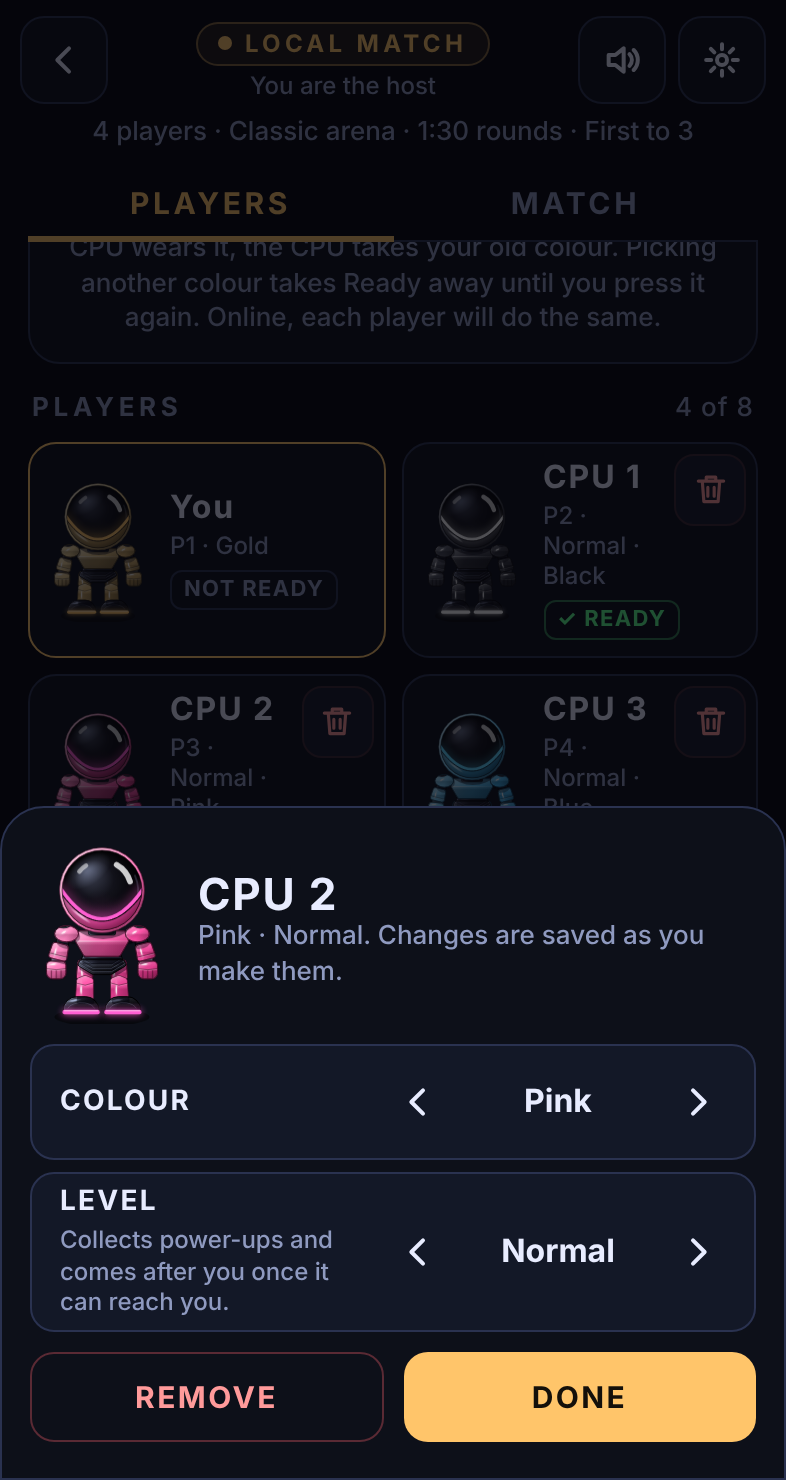
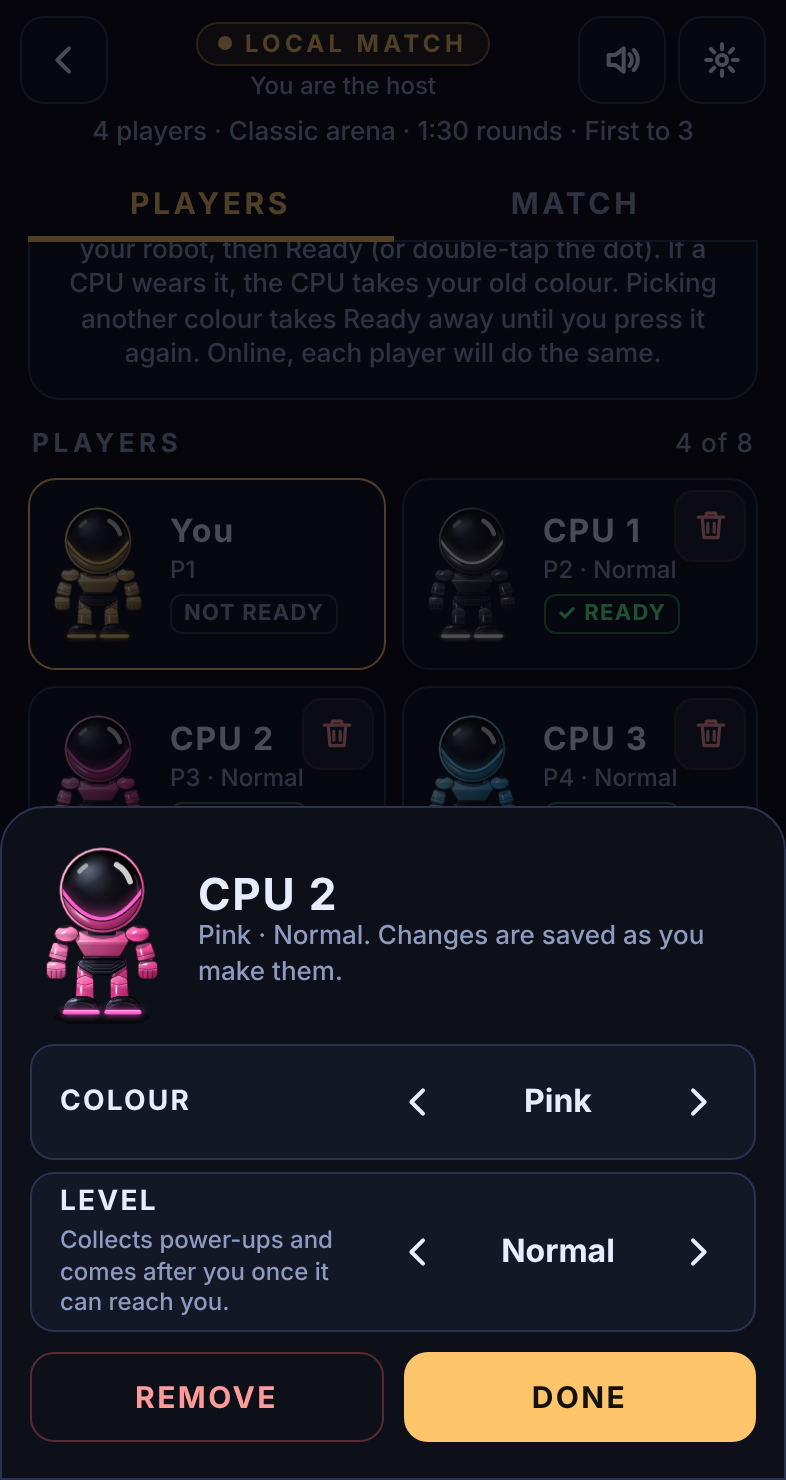
Lobby: player cards show P1, P2 · Normal, without the colour name
The colour is already plain from the robot on each card.

Claude-Session: https://claude.ai/code/session_011ftAyXDt63myZfd3j4Vhew

diff --git a/src/lobby.ts b/src/lobby.ts
@@ -206,7 +206,7 @@ export function createLobby(host: LobbyHost): {
     me.setAttribute('aria-label', `You, P1, ${colorById(host.myColor).name}, ${ready ? 'ready' : 'not ready'}`);
     const mc = document.createElement('canvas');
     const mt = document.createElement('div');
-    mt.innerHTML = `<b>You</b><small>P1 · ${colorById(host.myColor).name}</small><span class="rdy${ready ? ' on' : ''}">${ready ? '✓ Ready' : 'Not ready'}</span>`;
+    mt.innerHTML = `<b>You</b><small>P1</small><span class="rdy${ready ? ' on' : ''}">${ready ? '✓ Ready' : 'Not ready'}</span>`;
     me.append(mc, mt);
     box.append(me);
     const cvs: [HTMLCanvasElement, string][] = [[mc, host.myColor]];
@@ -218,7 +218,7 @@ export function createLobby(host: LobbyHost): {
       b.setAttribute('aria-label', `CPU ${i + 1}, P${i + 2}, ${colorById(c.colorId).name}, ${LEVELS[c.level].label}, ready. Tap to change.`);
       const cv = document.createElement('canvas');
       const t = document.createElement('div');
-      t.innerHTML = `<b>CPU ${i + 1}</b><small>P${i + 2} · ${LEVELS[c.level].label} · ${colorById(c.colorId).name}</small><span class="rdy on">✓ Ready</span>`;
+      t.innerHTML = `<b>CPU ${i + 1}</b><small>P${i + 2} · ${LEVELS[c.level].label}</small><span class="rdy on">✓ Ready</span>`;
       b.append(cv, t);
       b.addEventListener('click', () => openSheet(i));
       // the bin: removes this CPU player at once (Undo brings it back)

diff --git a/src/page.html b/src/page.html
@@ -477,7 +477,8 @@
   .slot.add b { font-size: 14px; }
   .slot-wrap { position: relative; display: grid; }
   .slot-wrap .slot { padding-right: 8px; }
-  .slot-wrap .slot b, .slot-wrap .slot small { padding-right: 32px; }
+  .slot-wrap .slot b { padding-right: 32px; }
+  .slot small { white-space: nowrap; }
   .bin { position: absolute; top: 6px; right: 6px; width: 36px; height: 36px; display: grid; place-items: center; padding: 0; cursor: pointer; color: #ff9a9a; background: #151a28; border: 1px solid #3a2530; border-radius: 10px; }
   .bin svg { width: 19px; height: 19px; fill: none; stroke: currentColor; stroke-width: 2; stroke-linecap: round; stroke-linejoin: round; }
   .bin:disabled { opacity: 0.25; cursor: default; }
